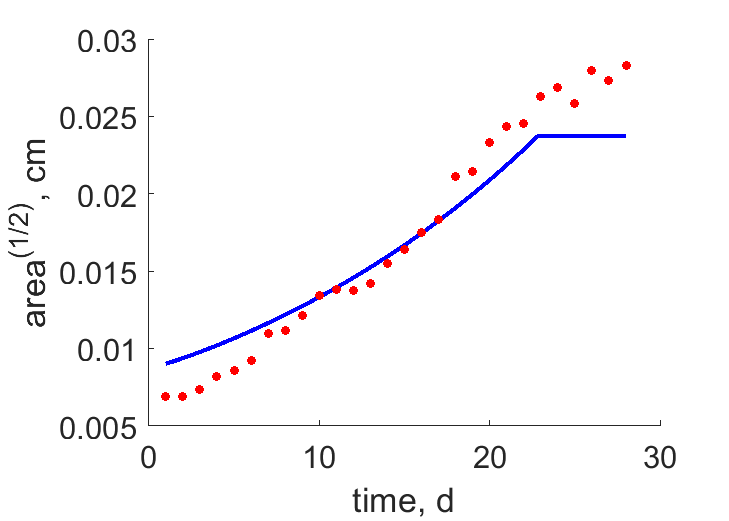
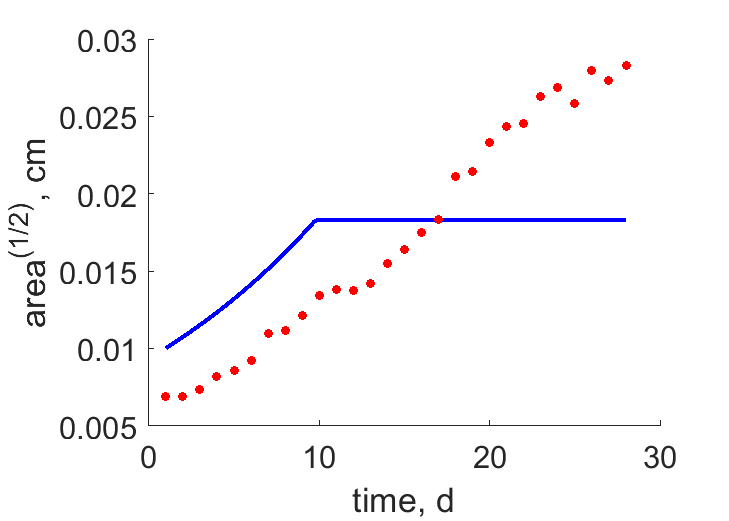
updating model fit

diff --git a/Tachidius_discipes_abp/Tachidius_discipes_res.html b/Tachidius_discipes_abp/Tachidius_discipes_res.html
@@ -44,7 +44,7 @@
   </div>
 
   <div class="par">
-  <h4>COMPLETE = 2.0; MRE =    0.145; SMAE =    0.150; SMSE =    0.044 </h4>
+  <h4>COMPLETE = 2.0; MRE =    0.289; SMAE =    0.294; SMSE =    0.106 </h4>
   </div>
 
   <p class="clear"></p>
@@ -53,33 +53,33 @@
   <h2>Data & predictions</h2>
   <TABLE id="prd">
     <TR  class="head"><TH>data</TH> <TH>prd</TH> <TH>RE</TH>  <TH>symbol</TH> <TH>units</TH> <TH>description</TH> </TR>
-    <TR><TD>4.375</TD> <TD>4.087</TD> <TD>0.06581</TD> <TD>ah</TD> <TD>d</TD> <TD>age at hatch</TD></TR>
-    <TR><TD>0.006853</TD> <TD>0.007002</TD> <TD>0.02174</TD> <TD>Lh</TD> <TD>cm</TD> <TD>length at hatch</TD></TR>
-    <TR><TD>0.007812</TD> <TD>0.00901</TD> <TD>0.1533</TD> <TD>Lb</TD> <TD>cm</TD> <TD>length at birth</TD></TR>
-    <TR><TD>0.02666</TD> <TD>0.02294</TD> <TD>0.1395</TD> <TD>Lp</TD> <TD>cm</TD> <TD>length at puberty</TD></TR>
-    <TR><TD>2.057e-05</TD> <TD>2.161e-05</TD> <TD>0.05027</TD> <TD>Wdp</TD> <TD>g</TD> <TD>ultimate dry weight at puberty</TD></TR>
-    <TR><TD>14.6</TD> <TD>13.08</TD> <TD>0.104</TD> <TD>JOi</TD> <TD>nL/h/mug</TD> <TD>ultimate specific O2 consumption</TD></TR>
-    <TR><TD>0.985</TD> <TD>10.85</TD> <TD>10.01</TD> <TD>WCp</TD> <TD>mugC</TD> <TD>carbon mass at puberty</TD></TR>
-    <TR><TD>0.2353</TD> <TD>1.898</TD> <TD>7.069</TD> <TD>WNp</TD> <TD>mugN</TD> <TD>nitrogen mass at puberty</TD></TR>
-    <TR><TD colspan="2">see figure</TD> <TD>0.09897</TD> <TD>tL12</TD> <TD colspan="2">time <font color="blue"><i>vs.</i></font> area^{(1/2)}</TD>
-    <TR><TD colspan="2">see figure</TD> <TD>0.07778</TD> <TD>tL15</TD> <TD colspan="2">time <font color="blue"><i>vs.</i></font> area^{(1/2)}</TD>
-    <TR><TD colspan="2">see figure</TD> <TD>0.1029</TD> <TD>tL18</TD> <TD colspan="2">time <font color="blue"><i>vs.</i></font> area^{(1/2)}</TD>
-    <TR><TD colspan="2">see figure</TD> <TD>0.1003</TD> <TD>tL21</TD> <TD colspan="2">time <font color="blue"><i>vs.</i></font> area^{(1/2)}</TD>
-    <TR><TD colspan="2">see figure</TD> <TD>0.07579</TD> <TD>tL24</TD> <TD colspan="2">time <font color="blue"><i>vs.</i></font> area^{(1/2)}</TD>
-    <TR><TD colspan="2">see figure</TD> <TD>0.1173</TD> <TD>tN12</TD> <TD colspan="2">time <font color="blue"><i>vs.</i></font> clutch size</TD>
-    <TR><TD colspan="2">see figure</TD> <TD>0.2731</TD> <TD>tN15</TD> <TD colspan="2">time <font color="blue"><i>vs.</i></font> clutch size</TD>
-    <TR><TD colspan="2">see figure</TD> <TD>0.1522</TD> <TD>tN18</TD> <TD colspan="2">time <font color="blue"><i>vs.</i></font> clutch size</TD>
-    <TR><TD colspan="2">see figure</TD> <TD>0.5135</TD> <TD>tN21</TD> <TD colspan="2">time <font color="blue"><i>vs.</i></font> clutch size</TD>
-    <TR><TD colspan="2">see figure</TD> <TD>0.2761</TD> <TD>tN24</TD> <TD colspan="2">time <font color="blue"><i>vs.</i></font> clutch size</TD>
-    <TR><TD colspan="2">see figure</TD> <TD>0.2101</TD> <TD>Tah</TD> <TD colspan="2">temperature <font color="blue"><i>vs.</i></font> age at hatching</TD>
-    <TR><TD colspan="2">see figure</TD> <TD>24.4</TD> <TD>LWCN</TD> <TD colspan="2">length <font color="blue"><i>vs.</i></font> carbon mass</TD>
-    <TR><TD colspan="2">see figure</TD> <TD>0.07462</TD> <TD>Tap</TD> <TD colspan="2">temperature <font color="blue"><i>vs.</i></font> age at puberty</TD>
-    <TR class="psd"><TD>0.02</TD> <TD>0.01346</TD> <TD>0.3272</TD> <TD>psd.v</TD> <TD>cm/d</TD> <TD>energy conductance</TD></TR>
-    <TR class="psd"><TD> 18</TD> <TD>2211</TD> <TD>121.9</TD> <TD>psd.p_M</TD> <TD>J/d.cm^3</TD> <TD>vol-spec som maint</TD></TR>
-    <TR class="psd"><TD>0.002</TD> <TD>0.002125</TD> <TD>0.06242</TD> <TD>psd.k_J</TD> <TD>1/d</TD> <TD>maturity maint rate coefficient</TD></TR>
-    <TR class="psd"><TD>0.3</TD> <TD>0.004254</TD> <TD>0.9858</TD> <TD>psd.k</TD> <TD>-</TD> <TD>maintenance ratio</TD></TR>
-    <TR class="psd"><TD>0.8</TD> <TD>0.9997</TD> <TD>0.2496</TD> <TD>psd.kap</TD> <TD>-</TD> <TD>allocation fraction to soma</TD></TR>
-    <TR class="psd"><TD>0.8</TD> <TD>0.8032</TD> <TD>0.004046</TD> <TD>psd.kap_G</TD> <TD>-</TD> <TD>growth efficiency</TD></TR>
+    <TR><TD>4.375</TD> <TD>5.35</TD> <TD>0.2229</TD> <TD>ah</TD> <TD>d</TD> <TD>age at hatch</TD></TR>
+    <TR><TD>0.006853</TD> <TD>0.009052</TD> <TD>0.321</TD> <TD>Lh</TD> <TD>cm</TD> <TD>length at hatch</TD></TR>
+    <TR><TD>0.007812</TD> <TD>0.01002</TD> <TD>0.2821</TD> <TD>Lb</TD> <TD>cm</TD> <TD>length at birth</TD></TR>
+    <TR><TD>0.02666</TD> <TD>0.01844</TD> <TD>0.3083</TD> <TD>Lp</TD> <TD>cm</TD> <TD>length at puberty</TD></TR>
+    <TR><TD>2.057e-05</TD> <TD>2.818e-05</TD> <TD>0.3701</TD> <TD>Wdp</TD> <TD>g</TD> <TD>ultimate dry weight at puberty</TD></TR>
+    <TR><TD>14.6</TD> <TD>11.96</TD> <TD>0.1807</TD> <TD>JOi</TD> <TD>nL/h/mug</TD> <TD>ultimate specific O2 consumption</TD></TR>
+    <TR><TD>0.985</TD> <TD>14.15</TD> <TD>13.37</TD> <TD>WCp</TD> <TD>mugC</TD> <TD>carbon mass at puberty</TD></TR>
+    <TR><TD>0.2353</TD> <TD>2.476</TD> <TD>9.526</TD> <TD>WNp</TD> <TD>mugN</TD> <TD>nitrogen mass at puberty</TD></TR>
+    <TR><TD colspan="2">see figure</TD> <TD>0.2871</TD> <TD>tL12</TD> <TD colspan="2">time <font color="blue"><i>vs.</i></font> area^{(1/2)}</TD>
+    <TR><TD colspan="2">see figure</TD> <TD>0.232</TD> <TD>tL15</TD> <TD colspan="2">time <font color="blue"><i>vs.</i></font> area^{(1/2)}</TD>
+    <TR><TD colspan="2">see figure</TD> <TD>0.2247</TD> <TD>tL18</TD> <TD colspan="2">time <font color="blue"><i>vs.</i></font> area^{(1/2)}</TD>
+    <TR><TD colspan="2">see figure</TD> <TD>0.2035</TD> <TD>tL21</TD> <TD colspan="2">time <font color="blue"><i>vs.</i></font> area^{(1/2)}</TD>
+    <TR><TD colspan="2">see figure</TD> <TD>0.2105</TD> <TD>tL24</TD> <TD colspan="2">time <font color="blue"><i>vs.</i></font> area^{(1/2)}</TD>
+    <TR><TD colspan="2">see figure</TD> <TD>0.1187</TD> <TD>tN12</TD> <TD colspan="2">time <font color="blue"><i>vs.</i></font> clutch size</TD>
+    <TR><TD colspan="2">see figure</TD> <TD>0.4287</TD> <TD>tN15</TD> <TD colspan="2">time <font color="blue"><i>vs.</i></font> clutch size</TD>
+    <TR><TD colspan="2">see figure</TD> <TD>0.3396</TD> <TD>tN18</TD> <TD colspan="2">time <font color="blue"><i>vs.</i></font> clutch size</TD>
+    <TR><TD colspan="2">see figure</TD> <TD>0.4126</TD> <TD>tN21</TD> <TD colspan="2">time <font color="blue"><i>vs.</i></font> clutch size</TD>
+    <TR><TD colspan="2">see figure</TD> <TD>0.289</TD> <TD>tN24</TD> <TD colspan="2">time <font color="blue"><i>vs.</i></font> clutch size</TD>
+    <TR><TD colspan="2">see figure</TD> <TD>0.3355</TD> <TD>Tah</TD> <TD colspan="2">temperature <font color="blue"><i>vs.</i></font> age at hatching</TD>
+    <TR><TD colspan="2">see figure</TD> <TD>15.93</TD> <TD>LWCN</TD> <TD colspan="2">length <font color="blue"><i>vs.</i></font> carbon mass</TD>
+    <TR><TD colspan="2">see figure</TD> <TD>0.4305</TD> <TD>Tap</TD> <TD colspan="2">temperature <font color="blue"><i>vs.</i></font> age at puberty</TD>
+    <TR class="psd"><TD>0.02</TD> <TD>0.01475</TD> <TD>0.2626</TD> <TD>psd.v</TD> <TD>cm/d</TD> <TD>energy conductance</TD></TR>
+    <TR class="psd"><TD> 18</TD> <TD>3267</TD> <TD>180.5</TD> <TD>psd.p_M</TD> <TD>J/d.cm^3</TD> <TD>vol-spec som maint</TD></TR>
+    <TR class="psd"><TD>0.002</TD> <TD>0.002633</TD> <TD>0.3164</TD> <TD>psd.k_J</TD> <TD>1/d</TD> <TD>maturity maint rate coefficient</TD></TR>
+    <TR class="psd"><TD>0.3</TD> <TD>0.003585</TD> <TD>0.988</TD> <TD>psd.k</TD> <TD>-</TD> <TD>maintenance ratio</TD></TR>
+    <TR class="psd"><TD>0.8</TD> <TD>0.9999</TD> <TD>0.2499</TD> <TD>psd.kap</TD> <TD>-</TD> <TD>allocation fraction to soma</TD></TR>
+    <TR class="psd"><TD>0.8</TD> <TD>0.7995</TD> <TD>0.0006676</TD> <TD>psd.kap_G</TD> <TD>-</TD> <TD>growth efficiency</TD></TR>
     <TR class="psd"><TD>0.95</TD> <TD>0.95</TD> <TD>  0</TD> <TD>psd.kap_R</TD> <TD>-</TD> <TD>reproduction efficiency</TD></TR>
   </TABLE>
   </div>
@@ -89,32 +89,32 @@
   <TABLE id="par">
     <TR class="head"><TH>symbol</TH> <TH>units</TH> <TH>value</TH>  <TH>free</TH> <TH>description</TH> </TR>
     <TR><TD>T_ref</TD> <TD>K</TD> <TD>293.1</TD> <TD>0</TD> <TD>Reference temperature</TD></TR>
-    <TR><TD>T_A</TD> <TD>K</TD> <TD>4565</TD> <TD>1</TD> <TD>Arrhenius temperature</TD></TR>
-    <TR><TD>z</TD> <TD>-</TD> <TD>0.02923</TD> <TD>1</TD> <TD>zoom factor</TD></TR>
+    <TR><TD>T_A</TD> <TD>K</TD> <TD>5463</TD> <TD>1</TD> <TD>Arrhenius temperature</TD></TR>
+    <TR><TD>z</TD> <TD>-</TD> <TD>0.05744</TD> <TD>1</TD> <TD>zoom factor</TD></TR>
     <TR><TD>F_m</TD> <TD>l/d.cm^2</TD> <TD>6.5</TD> <TD>0</TD> <TD>{F_m}, max spec searching rate</TD></TR>
     <TR><TD>kap_X</TD> <TD>-</TD> <TD>0.8</TD> <TD>0</TD> <TD>digestion efficiency of food to reserve</TD></TR>
     <TR><TD>kap_P</TD> <TD>-</TD> <TD>0.1</TD> <TD>0</TD> <TD>faecation efficiency of food to faeces</TD></TR>
-    <TR><TD>v</TD> <TD>cm/d</TD> <TD>0.01346</TD> <TD>1</TD> <TD>energy conductance</TD></TR>
-    <TR><TD>kap</TD> <TD>-</TD> <TD>0.9997</TD> <TD>1</TD> <TD>allocation fraction to soma</TD></TR>
+    <TR><TD>v</TD> <TD>cm/d</TD> <TD>0.01475</TD> <TD>1</TD> <TD>energy conductance</TD></TR>
+    <TR><TD>kap</TD> <TD>-</TD> <TD>0.9999</TD> <TD>1</TD> <TD>allocation fraction to soma</TD></TR>
     <TR><TD>kap_R</TD> <TD>-</TD> <TD>0.95</TD> <TD>0</TD> <TD>reproduction efficiency</TD></TR>
-    <TR><TD>p_M</TD> <TD>J/d.cm^3</TD> <TD>2211</TD> <TD>1</TD> <TD>[p_M], vol-spec somatic maint</TD></TR>
+    <TR><TD>p_M</TD> <TD>J/d.cm^3</TD> <TD>3267</TD> <TD>1</TD> <TD>[p_M], vol-spec somatic maint</TD></TR>
     <TR><TD>p_T</TD> <TD>J/d.cm^2</TD> <TD>  0</TD> <TD>0</TD> <TD>{p_T}, surf-spec somatic maint</TD></TR>
-    <TR><TD>k_J</TD> <TD>1/d</TD> <TD>0.002125</TD> <TD>1</TD> <TD>maturity maint rate coefficient</TD></TR>
-    <TR><TD>E_G</TD> <TD>J/cm^3</TD> <TD>4428</TD> <TD>1</TD> <TD>[E_G], spec cost for structure</TD></TR>
-    <TR><TD>E_Hb</TD> <TD>J</TD> <TD>8.524e-06</TD> <TD>1</TD> <TD>maturity at birth</TD></TR>
-    <TR><TD>E_Hp</TD> <TD>J</TD> <TD>0.0002535</TD> <TD>1</TD> <TD>maturity at puberty</TD></TR>
+    <TR><TD>k_J</TD> <TD>1/d</TD> <TD>0.002633</TD> <TD>1</TD> <TD>maturity maint rate coefficient</TD></TR>
+    <TR><TD>E_G</TD> <TD>J/cm^3</TD> <TD>4449</TD> <TD>1</TD> <TD>[E_G], spec cost for structure</TD></TR>
+    <TR><TD>E_Hb</TD> <TD>J</TD> <TD>5.98e-06</TD> <TD>1</TD> <TD>maturity at birth</TD></TR>
+    <TR><TD>E_Hp</TD> <TD>J</TD> <TD>5.138e-05</TD> <TD>1</TD> <TD>maturity at puberty</TD></TR>
     <TR><TD>h_a</TD> <TD>1/d^2</TD> <TD>2.737e-22</TD> <TD>0</TD> <TD>Weibull aging acceleration</TD></TR>
     <TR><TD>s_G</TD> <TD>-</TD> <TD>0.0001</TD> <TD>0</TD> <TD>Gompertz stress coefficient</TD></TR>
-    <TR><TD>E_Hh</TD> <TD>J</TD> <TD>3.194e-06</TD> <TD>1</TD> <TD>maturity at hatch</TD></TR>
-    <TR><TD>T_AL</TD> <TD>K</TD> <TD>1.566e+04</TD> <TD>1</TD> <TD>Arrhenius temperature low boundary</TD></TR>
-    <TR><TD>T_L</TD> <TD>K</TD> <TD>280</TD> <TD>0</TD> <TD>Lower temperature boundary for optimal growth</TD></TR>
-    <TR><TD>del_M</TD> <TD>-</TD> <TD>1.678</TD> <TD>1</TD> <TD>shape coefficient</TD></TR>
+    <TR><TD>E_Hh</TD> <TD>J</TD> <TD>3.991e-06</TD> <TD>1</TD> <TD>maturity at hatch</TD></TR>
+    <TR><TD>T_AL</TD> <TD>K</TD> <TD>1.613e+04</TD> <TD>1</TD> <TD>Arrhenius temperature low boundary</TD></TR>
+    <TR><TD>T_L</TD> <TD>K</TD> <TD>276.5</TD> <TD>1</TD> <TD>Lower temperature boundary for optimal growth</TD></TR>
+    <TR><TD>del_M</TD> <TD>-</TD> <TD>1.839</TD> <TD>1</TD> <TD>shape coefficient</TD></TR>
     <TR><TD>f</TD> <TD>-</TD> <TD>  1</TD> <TD>0</TD> <TD>scaled functional response for 0-var data</TD></TR>
-    <TR><TD>f_tL12</TD> <TD>-</TD> <TD>1.124</TD> <TD>1</TD> <TD>scaled functional response for data at 12 C</TD></TR>
+    <TR><TD>f_tL12</TD> <TD>-</TD> <TD>0.9487</TD> <TD>1</TD> <TD>scaled functional response for data at 12 C</TD></TR>
     <TR><TD>f_tL15</TD> <TD>-</TD> <TD>  1</TD> <TD>0</TD> <TD>scaled functional response for data at 15 C</TD></TR>
     <TR><TD>f_tL18</TD> <TD>-</TD> <TD>  1</TD> <TD>0</TD> <TD>scaled functional response for data at 18 C</TD></TR>
-    <TR><TD>f_tL21</TD> <TD>-</TD> <TD>0.9545</TD> <TD>1</TD> <TD>scaled functional response for data at 21 C</TD></TR>
-    <TR><TD>f_tL24</TD> <TD>-</TD> <TD>0.8972</TD> <TD>1</TD> <TD>scaled functional response for data at 24 C</TD></TR>
+    <TR><TD>f_tL21</TD> <TD>-</TD> <TD>0.6976</TD> <TD>1</TD> <TD>scaled functional response for data at 21 C</TD></TR>
+    <TR><TD>f_tL24</TD> <TD>-</TD> <TD>0.6791</TD> <TD>1</TD> <TD>scaled functional response for data at 24 C</TD></TR>
   </TABLE>
   </div>
 

diff --git a/Tachidius_discipes_abp/pars_init_Tachidius_discipes.m b/Tachidius_discipes_abp/pars_init_Tachidius_discipes.m
@@ -26,9 +26,9 @@ par.s_G = 0.0001;     free.s_G   = 0;   units.s_G = '-';          label.s_G = 'G
 %% other parameters 
 par.E_Hh = 4.743e-06; free.E_Hh  = 1;   units.E_Hh = 'J';         label.E_Hh = 'maturity at hatch'; 
 par.T_AL = 20000;     free.T_AL  = 1;   units.T_AL = 'K';         label.T_AL = 'Arrhenius temperature low boundary'; 
-par.T_L = 280;        free.T_L   = 0;   units.T_L = 'K';          label.T_L = 'Lower temperature boundary for optimal growth';
+par.T_L = 280;        free.T_L   = 1;   units.T_L = 'K';          label.T_L = 'Lower temperature boundary for optimal growth';
 %par.T_AH = 30000;     free.T_AH  = 1;   units.T_AH = 'K';         label.T_AH = 'Arrhenius temperature high boundary'; 
-%par.T_H = 303;        free.T_H   = 0;   units.T_H = 'K';          label.T_H = 'Higher temperature boundary for optimal growth'; 
+%par.T_H = 310;        free.T_H   = 0;   units.T_H = 'K';          label.T_H = 'Higher temperature boundary for optimal growth'; 
 par.del_M = 1.3692;   free.del_M = 1;   units.del_M = '-';        label.del_M = 'shape coefficient'; 
 par.f = 1;            free.f     = 0;   units.f = '-';            label.f = 'scaled functional response for 0-var data'; 
 par.f_tL12 = 1.0;     free.f_tL12 = 1;  units.f_tL12 = '-';       label.f_tL12 = 'scaled functional response for data at 12 C';
